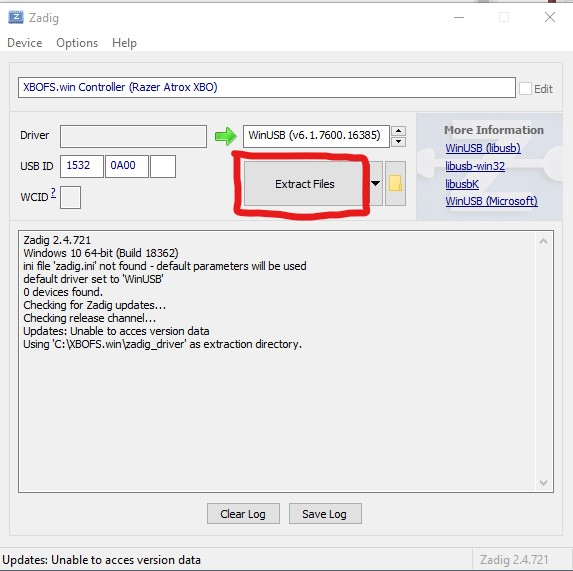
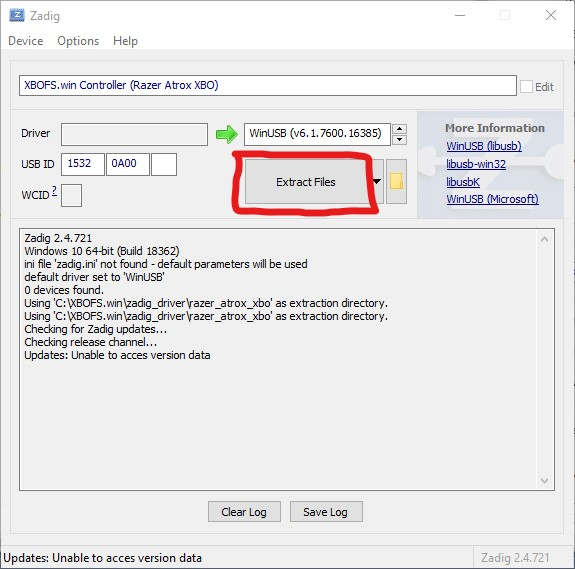
#12: Updated ZaDig guide

diff --git a/docs/zadig.md b/docs/zadig.md
@@ -29,7 +29,7 @@
 09. Click the *Extract Files (Don't Install)* option
 
     ![Device Manager](images/zadig/09.jpg)
-10. ZaDig should now appear as follows. DO NOT click the *Extract Files* button yet!
+10. ZaDig should now appear as follows. **DO NOT** click the *Extract Files* button yet!
 
     ![Device Manager](images/zadig/10.jpg)
 11. Click *Options*. Click *Advanced Mode*
@@ -38,10 +38,10 @@
 12. Click the highlighted icon next to the *Extract Files* button
 
     ![Device Manager](images/zadig/12.jpg)
-13. Navigate to the *zadig_driver* folder and click *Select Folder*
+13. Navigate to the *zadig_driver*, click the folder for your controller and click *Select Folder*
 
     ![Device Manager](images/zadig/13.jpg)
-14. Confirm in the log area that **ZaDig** is going to use the *zadig_driver* folder as the extraction directory
+14. Confirm in the log area that **ZaDig** is going to use the selected folder as the extraction directory
 
     ![Device Manager](images/zadig/14.jpg)
 15. Now, finally, click the *Extract Files* button
@@ -51,7 +51,7 @@
     were successfully extracted. You can now close **ZaDig**
 
     ![Device Manager](images/zadig/16.jpg)
-17. Open the *zadig_driver* folder
+17. Open the correct folder within the *zadig_driver* folder
 
     ![Device Manager](images/zadig/17.jpg)
 18. Right-click on the *Setup information* file (The icon is a white page with a grey gear)
